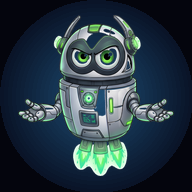
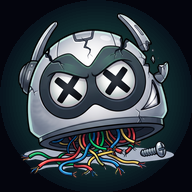
Iconos con la cabeza rota de Lucas y modo solo contra bots

diff --git a/index.html b/index.html
@@ -14,8 +14,8 @@
 <meta property="og:description" content="¿Qué robot desconectó a Lucas? Juega con tus amigos en la TV o solo con móviles.">
 <meta property="og:image" content="https://puntofibra.github.io/killbot/icon512.png">
 <link rel="manifest" href="manifest.json">
-<link rel="icon" type="image/png" href="icon192.png">
-<link rel="apple-touch-icon" href="icon192.png">
+<link rel="icon" type="image/png" href="icon192.png?v=2">
+<link rel="apple-touch-icon" href="appletouch.png">
 <link rel="preconnect" href="https://fonts.googleapis.com">
 <link href="https://fonts.googleapis.com/css2?family=Orbitron:wght@500;700;900&family=Rajdhani:wght@500;600;700&display=swap" rel="stylesheet">
 <style>

diff --git a/sw.js b/sw.js
@@ -1,5 +1,5 @@
 /* KILLBOT · service worker: página siempre fresca, imágenes en caché */
-const C = 'killbot-v1';
+const C = 'killbot-v2';
 self.addEventListener('install', e => { self.skipWaiting(); e.waitUntil(caches.open(C).then(c => c.addAll(['./', 'index.html', 'manifest.json', 'icon192.png', 'js/qrcode.min.js']).catch(() => {}))); });
 self.addEventListener('activate', e => e.waitUntil(caches.keys().then(k => Promise.all(k.filter(x => x !== C).map(x => caches.delete(x)))).then(() => self.clients.claim())));
 self.addEventListener('fetch', e => {
